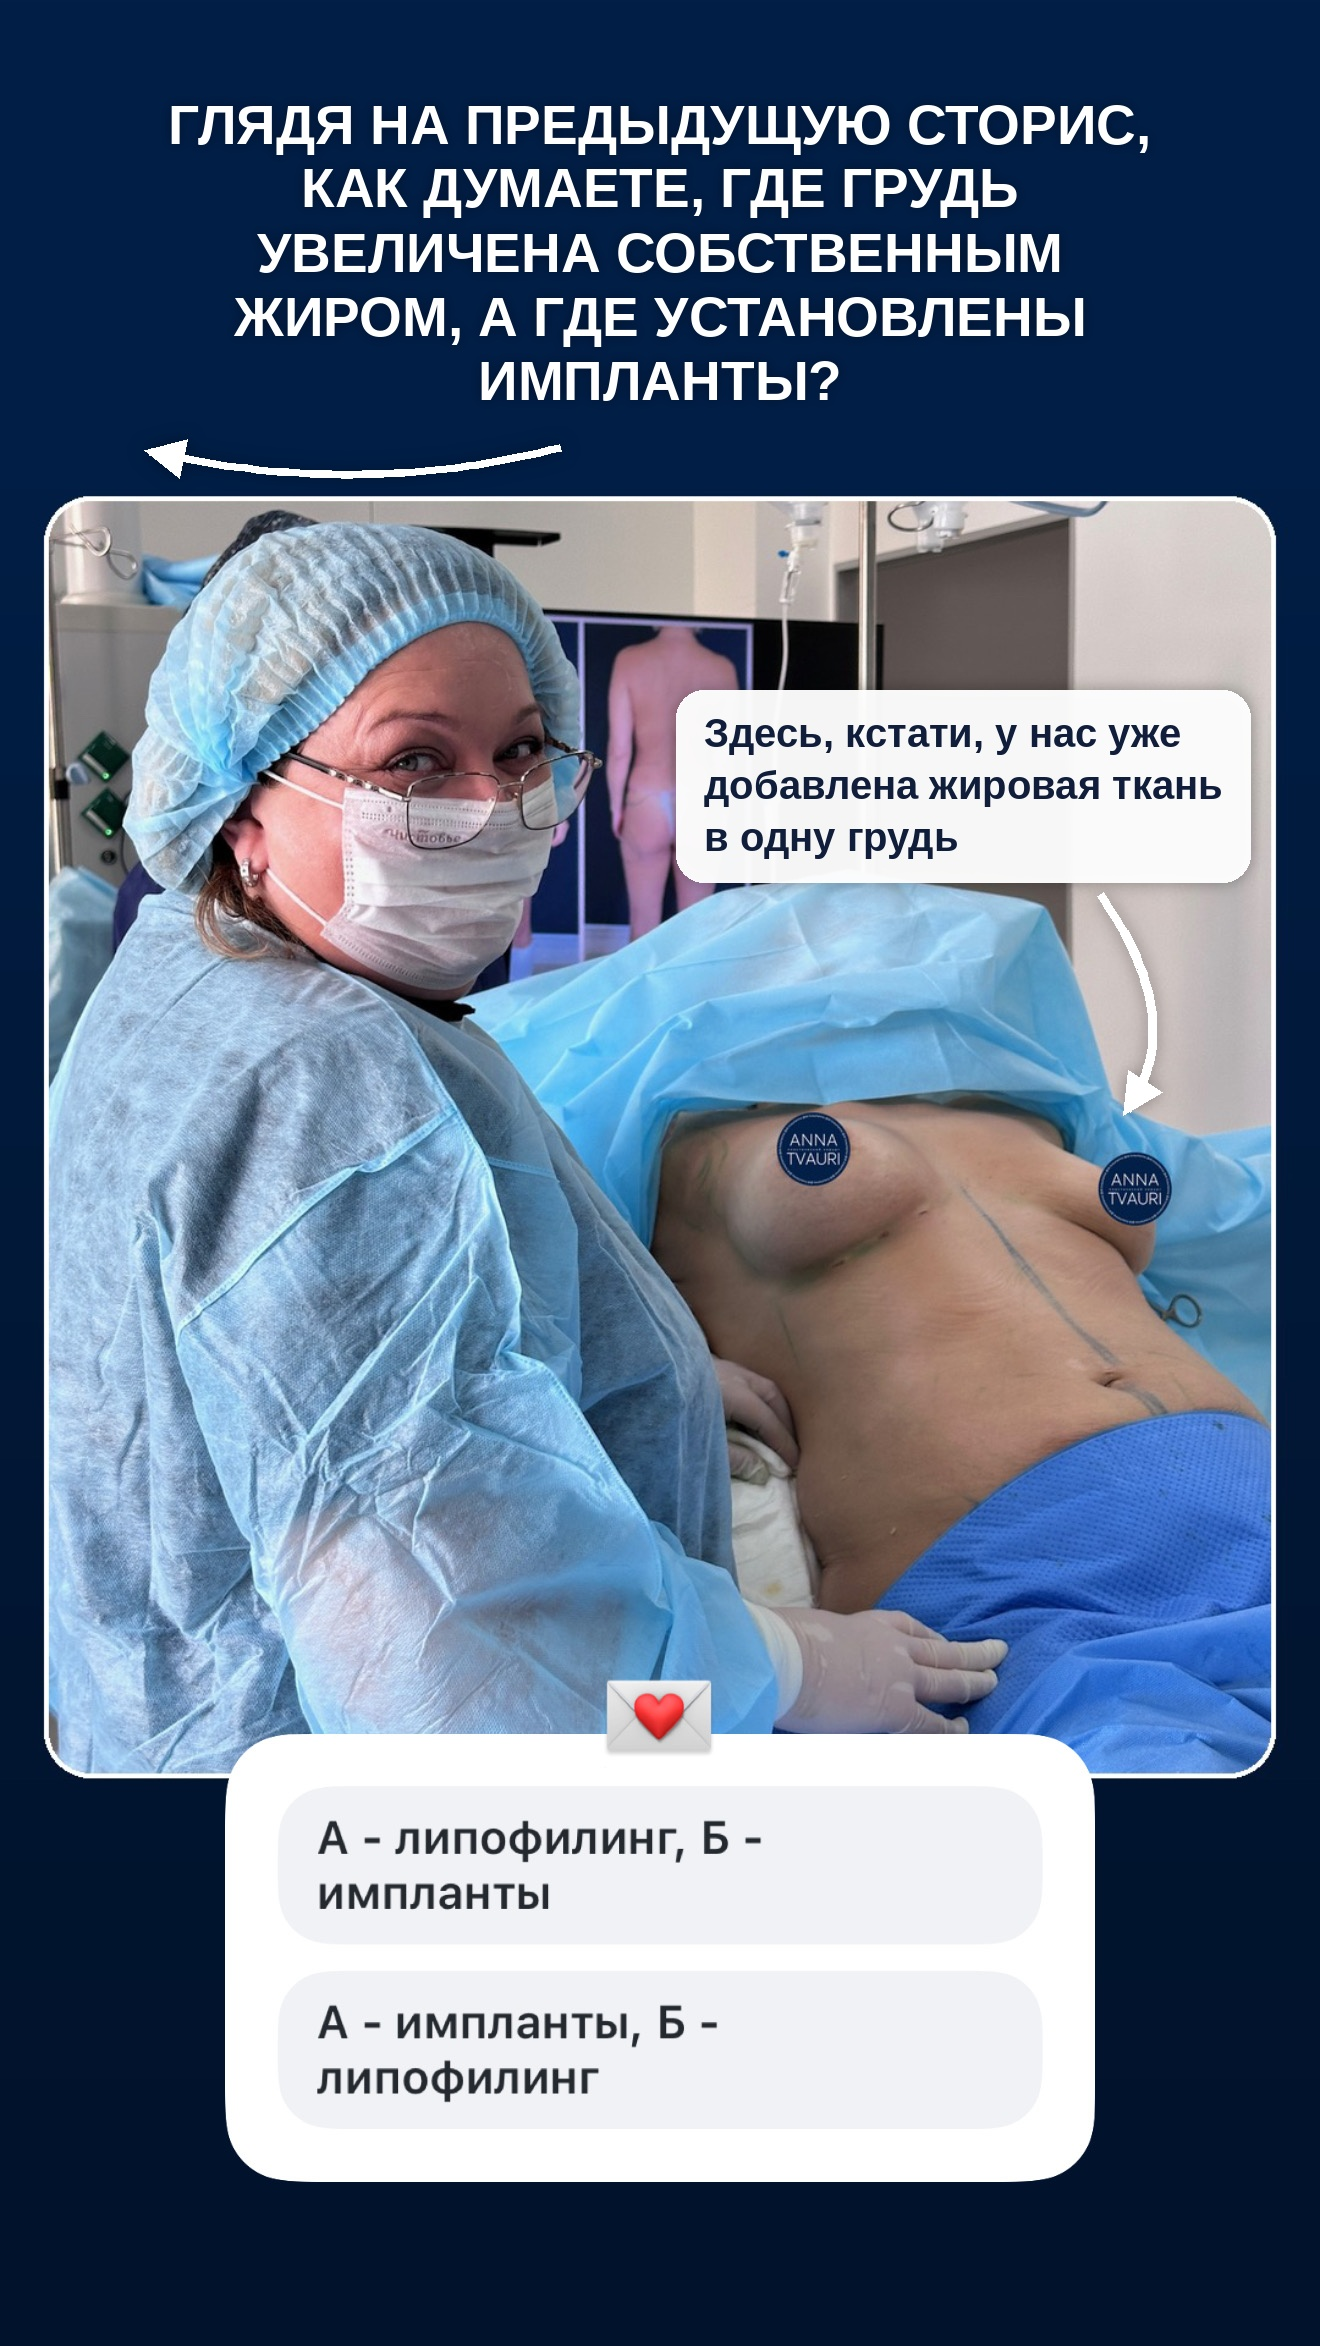
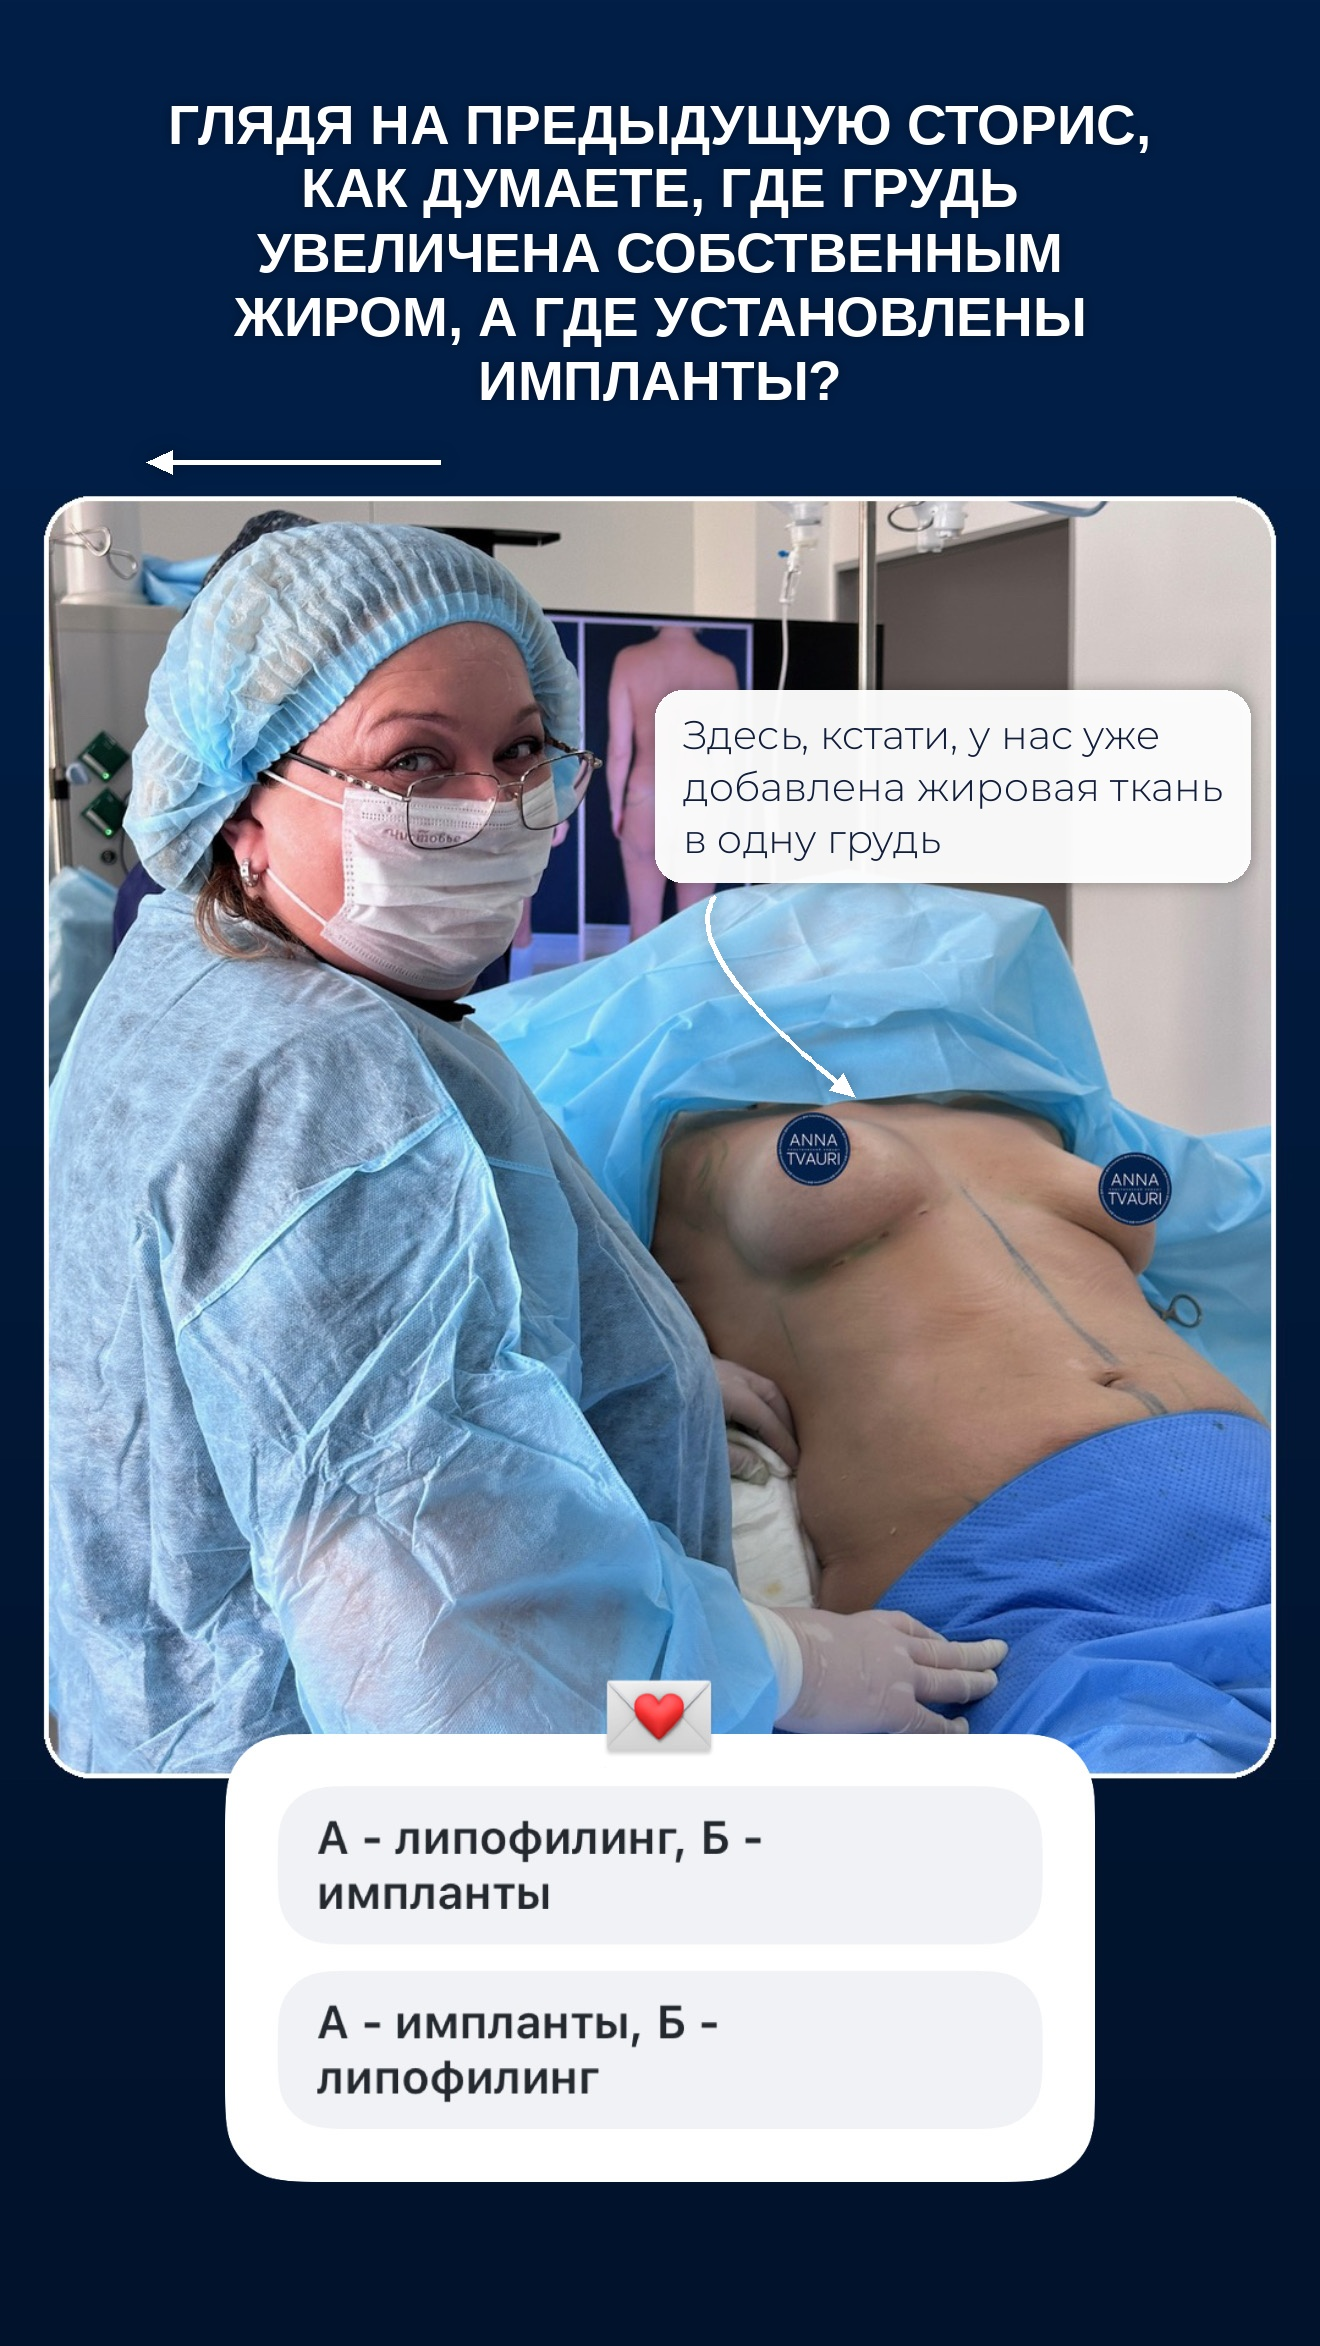
Story: smaller arrow to the left breast, thin Montserrat caption, straight arrow under the headline
Claude-Session: https://claude.ai/code/session_01WwhZiMgoJM3MQocuuEgczm

diff --git a/tools/story_lipo_or_implants.py b/tools/story_lipo_or_implants.py
@@ -16,20 +16,20 @@ sh = txt.filter(ImageFilter.GaussianBlur(6)).point(lambda v: int(v * 0.55))
 im = Image.composite(Image.new("RGB", (W, H), (0, 8, 25)), im, sh); im = Image.composite(Image.new("RGB", (W, H), (255, 255, 255)), im, txt)
 # caption card on the drape, arrows down to the breast where fat was added
 cap = ["Здесь, кстати, у нас уже", "добавлена жировая ткань", "в одну грудь"]
-fc = ImageFont.truetype(BOLD, 40); cw = int(max(fc.getlength(c) for c in cap)) + 56; chh = 52 * len(cap) + 36
+fc = ImageFont.truetype(SP + "fonts2/M300.ttf", 40); cw = int(max(fc.getlength(c) for c in cap)) + 56; chh = 52 * len(cap) + 36   # thin Montserrat
 cx0, cy0 = W - cw - 70, 690
 layer = Image.new("RGBA", (W, H), (0, 0, 0, 0)); dl = ImageDraw.Draw(layer)
 dl.rounded_rectangle((cx0, cy0, cx0 + cw, cy0 + chh), radius=28, fill=(255, 255, 255, 245))
 for i, c in enumerate(cap): dl.text((cx0 + 28, cy0 + 20 + i * 52), c, font=fc, fill=(16, 30, 60, 255))
 def bez(p0, p1, p2, n=40):
     t = np.linspace(0, 1, n)[:, None]; p0, p1, p2 = map(np.float32, (p0, p1, p2)); return (1 - t) ** 2 * p0 + 2 * (1 - t) * t * p1 + t ** 2 * p2
-def arrow(path, col=(255, 255, 255, 255), w=9):
+def arrow(path, col=(255, 255, 255, 255), w=5, hl=20, hw=11):
     dl.line([tuple(p) for p in path], fill=col, width=w, joint="curve")
     a, b = path[-4], path[-1]; v = (b - a) / np.linalg.norm(b - a); n = np.float32([-v[1], v[0]])
-    dl.polygon([tuple(b + v * 6), tuple(b - v * 34 + n * 20), tuple(b - v * 34 - n * 20)], fill=col)
-target = (1132, 1180)                                                                     # right breast (on the photo): fat already added
-arrow(bez((cx0 + cw - 150, cy0 + chh + 12), (cx0 + cw - 60, cy0 + chh + 140), (target[0] - 5, target[1] - 70)))
-arrow(bez((560, 448), (360, 500), (150, 452)), w=8)                       # under the headline: back to the previous story
+    dl.polygon([tuple(b + v * 4), tuple(b - v * hl + n * hw), tuple(b - v * hl - n * hw)], fill=col)
+target = (812, 1157)                                                                      # left breast (on the photo): fat already added
+arrow(bez((cx0 + 60, cy0 + chh + 14), (cx0 + 20, cy0 + chh + 70), (target[0] + 40, target[1] - 62)))      # small, neat
+arrow(np.float32([[440, 462], [300, 462], [200, 462], [150, 462]]), w=5, hl=22, hw=12)   # straight, under the headline: back to the previous story
 shadow = layer.filter(ImageFilter.GaussianBlur(8)); sa = np.asarray(shadow)[..., 3].astype(np.float32) * 0.35
 base = np.asarray(im).astype(np.float32); base *= 1 - sa[..., None] / 255
 im = Image.fromarray(base.astype(np.uint8)); im.paste(layer, (0, 0), layer)
